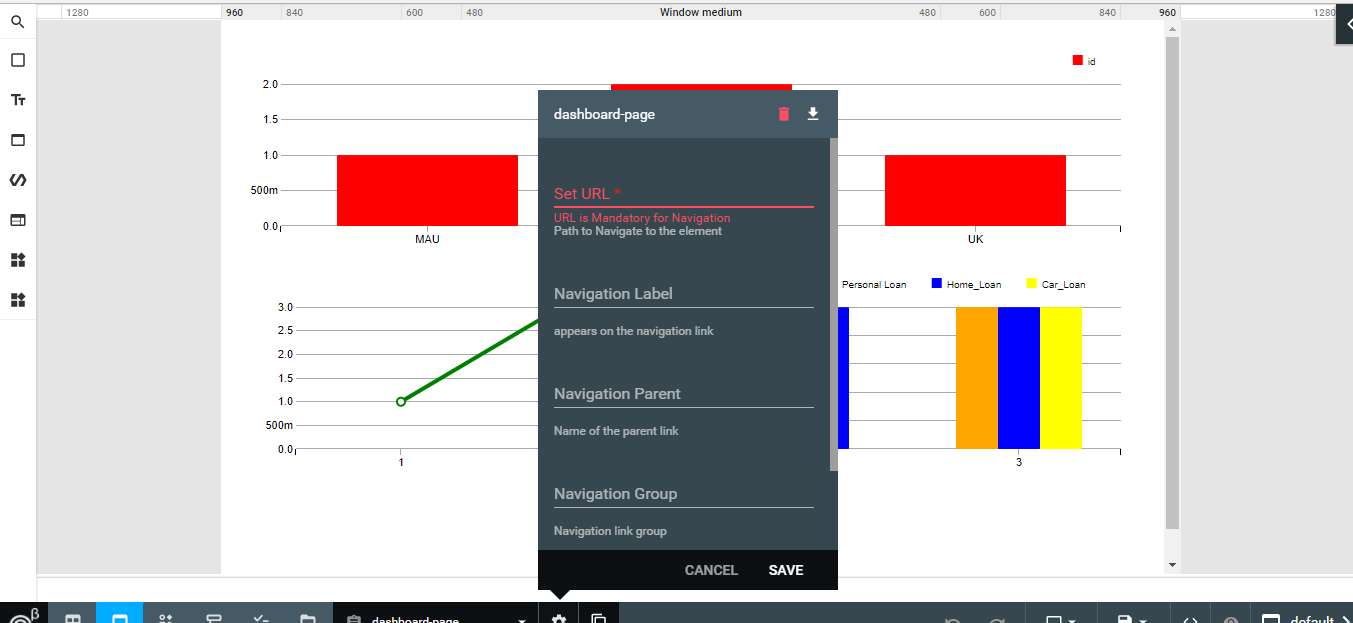
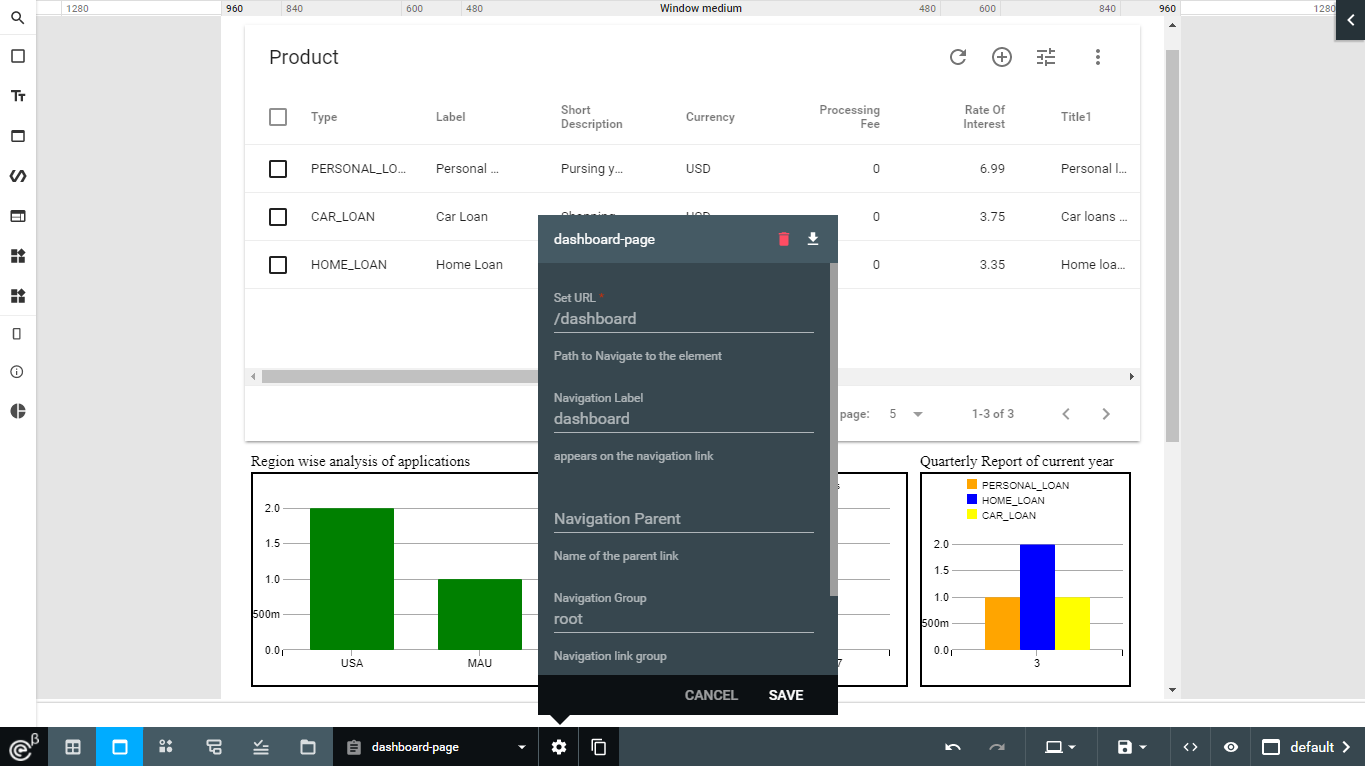
dashboard guide changes

diff --git a/docs/create-dashboard.md b/docs/create-dashboard.md
@@ -1,13 +1,11 @@
-# UI Validations
+# Create a dashboard using oe-studio
 
 ## What you'll Build
 
-Working on a [Example Application](https://cassibank.oecloud.io/login) which is added with oe-studio you will 
+Working on a [Example Application](https://cassibank.oecloud.io/login) which has oe-studio as bower dependency you will 
 * create a dashboard using studio
 * create a navigation link for the dashboard page using studio
 * create a route for the dashboard page using studio
-* create a route design to the dashboard using route designer
-* create a specific theme for the admin user using designer
 
 ## What you'll Need
 * Familiarity with oeClod.io
@@ -17,10 +15,15 @@ Working on a [Example Application](https://cassibank.oecloud.io/login) which is 
 
 ## How to complete this guide
 
-By the end of this guide, using data from  loan-application model and other related models of cassi bank, we will create an admin dashboard, a route and a navigation link, a route design to navigate to dashboard and a specific theme for the admin. 
+By the end of this guide, using data from  loan-application model and other related models of cassi bank, we will create an admin dashboard, a route and a navigation link. 
 
-Run the application using `node .` and open [http://localhost:3000/](http://localhost:3000/) in your browser. Login in as an admin, credentials are  john/Edge@2017$.
+Run the application using `node .` and open [http://localhost:3000/](http://localhost:3000/) in your browser. Login in as an admin, credentials are
 
+```
+username : john
+password : Edge@2017$
+
+```
 Navigate to http://localhost:3000/designer. You should see the screen as below:
 
 ![Start Page][desstart-page]
@@ -33,30 +36,133 @@ Click on the uidesigner icon i.e., the bottom left second icon, you will be navi
 
 Using uidesigner of oe-studio, it is possible to create either a static page or a polymer element. You can add a route and a navigation link to thus create page/element with few simple clicks in the designer.
 
-In this guide we will build a static page, which essentially serves as a dashboard. 
+In this guide we will build a static page, which will serve as a dashboard. 
 
-Select Create/Manage Components, as shown image, follow the steps in the subsequent images:
+Select Create/Manage Components, as shown image, 
 
-![Static Page][static-page]
+![Create Page][static-page]
+
+Select Static Page
+
+![Static Page][static-select]
+
+Add a new component
+
+![Add Component][add-component]
+
+![Choose Page][choose-page]
+
+![Add Details][add-details]
+
+Let us choose a blank form for our dashboard as a template:
+
+![Choose Template][add-template]
+
+Dashboard page looks as below
+
+![New Dashboard][first-dashboard]
+
+Now let us drag and drop components, to achieve the dashboard as below
+
+![End Page][end-page]
+
+## Adding Data table component to the dashboard
+
+![Adding datatable1][datatable-step1]
+
+![Adding datatable2][datatable-step2]
 
 
+![Adding datatable3][datatable-step3]
 
-## Configuring route and navigation link for the page developed
+![Adding datatable4][datatable-step4]
+
+## Adding Widget container
+
+![widget container][widget-container]
+![Configure Layout][configure-layout]
+
+![Final Layout][final-layout]
+
+## Adding Labels to the graphs in dashboard
+
+![Adding label1][label-step1]
+![Adding label2][label-step2]
+![Adding label3][label-step3]
+
+## Adding Graphs to the dashboard
+
+![Adding graphs1][graphs-step1]
+![Adding graphs2][graphs-step2]
+![Adding graphs3][graphs-step3]
 
 
-## Designing Route Navigation flow using Route Designer of oe-studio
+![Before Style][before-style]
 
-## Adding custom theme to a role using Resource Manager
+## Adding Additional Styles to the dashboard
+
+![Adding Style1][style-step1]
+![Adding Style2][style-step2]
+
+![After Style][after-style]
+
+## Code View of oe-studio
+
+![Code View][code-view]
+
+## Configuring route for the page developed
+
+Let us now configure the route and navigation for the page that is designed in oe-studio.
+
+![Configure Route][configuring route]
 
 
+## In our application
 
+Navigate to localhost:3000
+
+![Application Start][application-start]
+
+Click on the menu i.e, to left top corner and you will see the screen below.
+
+![Navigation Menu][navigation-menu]
+
+Click on dashborad and you will navigate to dashboard page. 
+
+![End Page][end-page]
 
 
 ## Summary
-Oe-studio is a  powerful tool to Create a page,its route,designing the route flow and creating specific themes with less or no coding
+Oe-studio is a  powerful tool to Create a page,its routewith less or no coding
 
 
-[start-page]:  ../guides/images/ui-based/oe-studio/desstart-page.png "Start Page"
-[UIDesigner-page]:../guides/images/ui-based/oe-studio/uidesstart-page.png "UIDesigner Page"
-[static-page]:../guides/images/ui-based/oe-studio/static-page.png "Static Page"
-[end-page]: ../guides/images/ui-based/oe-studio/end-page.png "End Page"
+[start-page]:  images/oe-studio-charts/desstart-page.png "Start Page"
+[UIDesigner-page]:images/oe-studio-charts/uidesstart-page.png "UIDesigner Page"
+[static-page]:images/oe-studio-charts/static-page.png "Static Page"
+[static-select]:images/oe-studio-charts/static-select.png "Static Page"
+[add-component]:images/oe-studio-charts/add-component.png "Add Component"
+[choose-page]:images/oe-studio-charts/choose-page.png "Choose Page"
+[adding-details]:images/oe-studio-charts/adding-details.png "Add Details"
+[add-template]:images/oe-studio-charts/choose-template.png "Choose Template"
+[first-dashboard]:images/oe-studio-charts/new-dashboard.png "New Dashboard"
+[end-page]: images/oe-studio-charts/actual_dashboard.png "End Page"
+[configuring route]:images/oe-studio-charts/route-configuration.png "Configure Route"
+[application-start]:images/oe-studio-charts/application-start.png "Application Start"
+[datatable-step1]:images/oe-studio-charts/drag-datatable.png "Adding datatable1"
+[datatable-step2]:images/oe-studio-charts/drag-datatable-1.png "Adding datatable2"
+[datatable-step3]:images/oe-studio-charts/drag-datatable-2.png "Adding datatable3"
+[datatable-step4]:images/oe-studio-charts/drag-datatable-3.png "Adding datatable4"
+[widget-container]:images/oe-studio-charts/widget-container.png "widget container"
+[label-step1]:images/oe-studio-charts/adding_labels_1.png "Adding label1"
+[label-step2]:images/oe-studio-charts/adding_labels_2.png "Adding label2"
+[label-step3]:images/oe-studio-charts/adding_labels_3.png "Adding label3"
+[graphs-step1]:images/oe-studio-charts/oe-charts-1.png "Adding graphs1"
+[graphs-step2]:images/oe-studio-charts/oe-charts-2.png "Adding graphs2"
+[graphs-step3]:images/oe-studio-charts/oe-charts-3.png "Adding graphs3"
+[before-style]:images/oe-studio-charts/dashboard-withoutstyle.png "Before Style"
+[style-step1]:images/oe-studio-charts/adding-style.png "Adding Style1"
+[style-step2]:images/oe-studio-charts/adding-style-2.png "Adding Style2"
+[after-style]:images/oe-studio-charts/dashboard-afterstyle.png "After Style"
+[configure-layout]:images/oe-studio-charts/delete-resize.png "Configure Layout"
+[final-layout]:images/oe-studio-charts/final_layout.png "Final Layout"
+[code-view]:images/oe-studio-charts/code-view.png "Code View"
